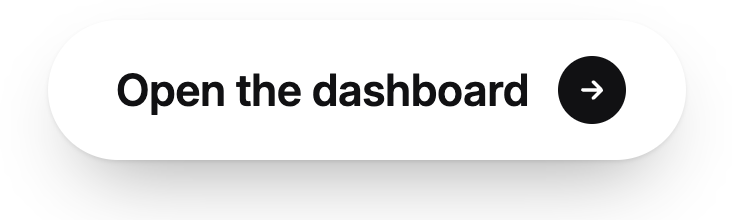
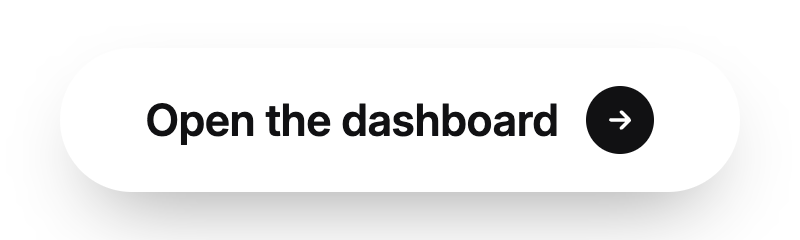
readme: same size for both buttons

diff --git a/README.md b/README.md
@@ -13,18 +13,14 @@ A small pipeline engine for ML in plain Python: steps wired by parameter name, a
 </p>
 
 <p align="center">
-  <a href="https://stxqq.github.io/conveyor/">
-    <picture>
+  <a href="https://stxqq.github.io/conveyor/"><picture>
       <source media="(prefers-color-scheme: dark)" srcset=".github/assets/launch-dark.png">
-      <img src=".github/assets/launch-light.png" alt="Open the live demo" width="300">
-    </picture>
-  </a>
-  <a href="https://github.com/Stxqq/conveyor">
-    <picture>
+      <img src=".github/assets/launch-light.png" alt="Open the live demo" width="280">
+    </picture></a>
+  <a href="https://github.com/Stxqq/conveyor"><picture>
       <source media="(prefers-color-scheme: dark)" srcset=".github/assets/star-dark.png">
-      <img src=".github/assets/star-light.png" alt="Star on GitHub" width="260">
-    </picture>
-  </a>
+      <img src=".github/assets/star-light.png" alt="Star on GitHub" width="280">
+    </picture></a>
   <br />
   <sub>If you found it useful, a star helps more people find it.</sub>
 </p>
